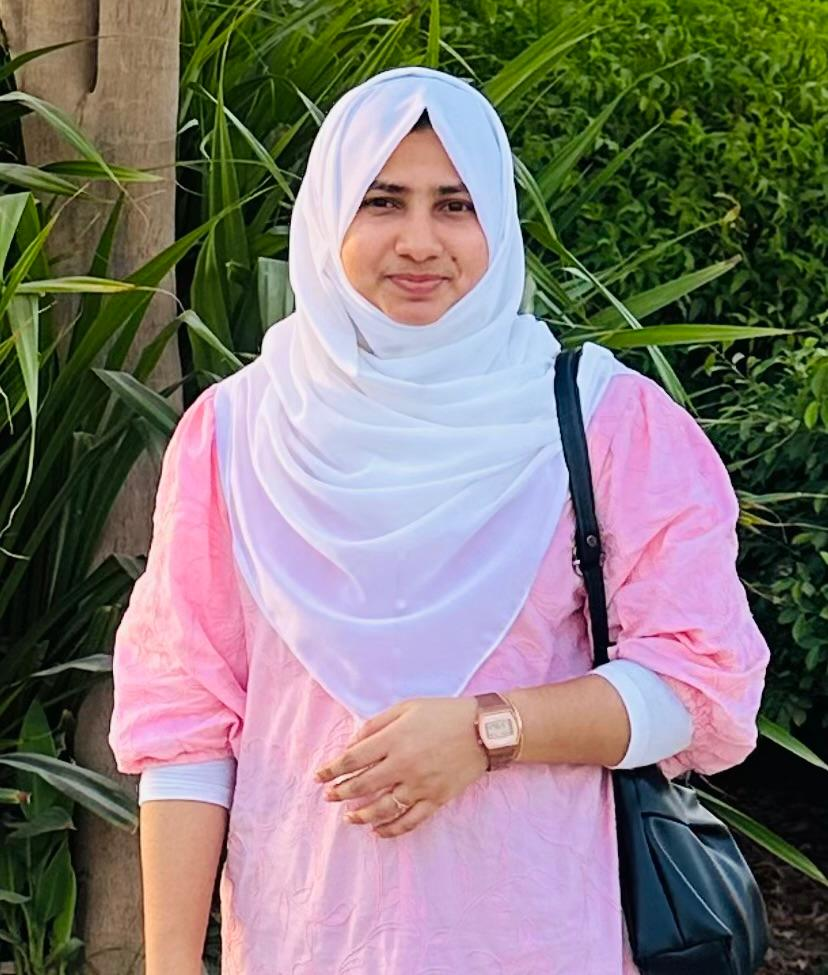
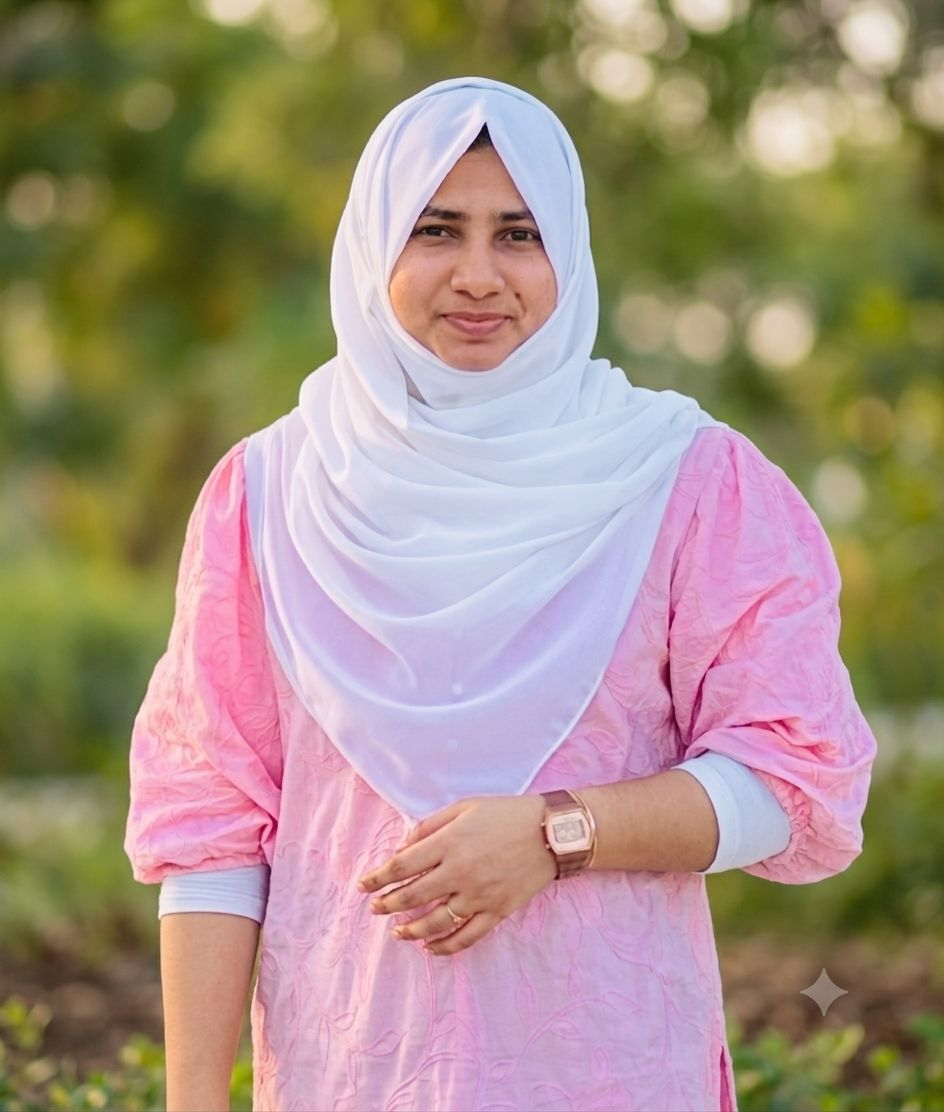
Added new project data

diff --git a/src/data/data.js b/src/data/data.js
@@ -4,24 +4,17 @@ export const data = {
             title: "CookBook",
             description: "A social platform for food lovers to share recipes, discover new dishes, follow creators, and save their favorite meals in one place.",
             image: "/images/cookbook.png",
-            technologies: ["React", "Express", "MongoDB"],
+            technologies: ["React", "Express", "MongoDB", "JWT", "GEMINI"],
             github: 'https://github.com/Shabnapm99/RecipeSharingPlatform',
             live: "https://recipe-sharing-platform-gold.vercel.app/"
-        }, {
-            title: "Portfolio",
-            description: "A personal portfolio website to showcase projects, skills, and experience with a clean, responsive design and smooth user experience.",
-            image: "/images/portfolio.png",
-            technologies: ["React", "Tailwind"],
-            github: 'https://github.com/Shabnapm99/Portfolio--REACT',
-            live: "https://portfolio-react-seven-plum.vercel.app/"
-
-        }, {
-            title: "Taskger",
-            description: "A productivity app that helps users organize tasks, set priorities, and track progress efficiently with an intuitive and user-friendly interface.",
-            image: "/images/taskger.png",
-            technologies: ["React", "Express", "MongoDB"],
-            github: 'https://github.com/Shabnapm99/Task-Manager',
-            live: "https://task-manager-one-mu-56.vercel.app/"
+        },
+        {
+            title: "AI-Assisted Quotation Builder",
+            description: "AI-powered quotation management platform with client CRM, dynmaic quotation workflows, pdf export and automated Discord notifications using n8n webhooks",
+            image: "/images/addQuote.png",
+            technologies: ["React", "Express", "MongoDB", "JWT", "n8n", "GEMINI"],
+            github: 'https://github.com/Shabnapm99/AI-Assisted-Quotation-Builder',
+            live: "https://ai-assisted-quotation-builder.vercel.app/"
 
         },
         {
@@ -33,6 +26,25 @@ export const data = {
             live: "https://hand-betting-game-bzp1.vercel.app/"
 
         },
+         {
+            title: "Portfolio",
+            description: "A personal portfolio website to showcase projects, skills, and experience with a clean, responsive design and smooth user experience.",
+            image: "/images/portfolio.png",
+            technologies: ["React", "Tailwind"],
+            github: 'https://github.com/Shabnapm99/Portfolio--REACT',
+            live: "https://portfolio-react-seven-plum.vercel.app/"
+
+        },
+         {
+            title: "Taskger",
+            description: "A productivity app that helps users organize tasks, set priorities, and track progress efficiently with an intuitive and user-friendly interface.",
+            image: "/images/taskger.png",
+            technologies: ["React", "Express", "MongoDB", "JWT"],
+            github: 'https://github.com/Shabnapm99/Task-Manager',
+            live: "https://task-manager-one-mu-56.vercel.app/"
+
+        },
+        
     ],
     skills:[
         {
@@ -44,7 +56,7 @@ export const data = {
             techStack:["Node.js","Express.js","MongoDB","MySQL"]
         },        {
             title:"Tools & more",
-            techStack:["Git & GitHub","Postman","SAP Commerce Cloud"]
+            techStack:["Git & GitHub","Postman","SAP Commerce Cloud","n8n","VS code"]
         },
     ]
 }

diff --git a/src/sections/About.jsx b/src/sections/About.jsx
@@ -17,7 +17,21 @@ function About() {
         <div className='flex flex-col lg:flex-row items-center gap-16'>
 
           <ImageSection />
-          <AboutMe />
+          <div className='flex flex-col justify-center items-center'>
+            <AboutMe />
+            <div className="mt-12 text-center">
+              <a className="inline-flex items-center px-6 py-3 border-2 border-prim-violet text-prim-violet font-bold rounded-xl hover:bg-prim-violet hover:text-white transition-all group"
+                href="/file/Resume_Shabnapm.pdf" download>
+                <svg className="w-5 h-5 mr-2 group-hover:animate-bounce" fill="none" stroke="currentColor" viewBox="0 0 24 24">
+                  <path d="M4 16v1a3 3 0 003 3h10a3 3 0 003-3v-1m-4-4l-4 4m0 0l-4-4m4 4V4" strokeLinecap="round"
+                    strokeLinejoin="round" strokeWidth="2"></path>
+                </svg>
+                Download Full Resume
+              </a>
+            </div>
+
+          </div>
+
 
         </div>
       </div>

diff --git a/src/sections/MainPage.jsx b/src/sections/MainPage.jsx
@@ -13,7 +13,7 @@ function MainPage() {
             <About />
             <Skills />
             <Projects />
-            <Journey />
+            {/* <Journey /> */}
             <Contact />
         </main>
     )
